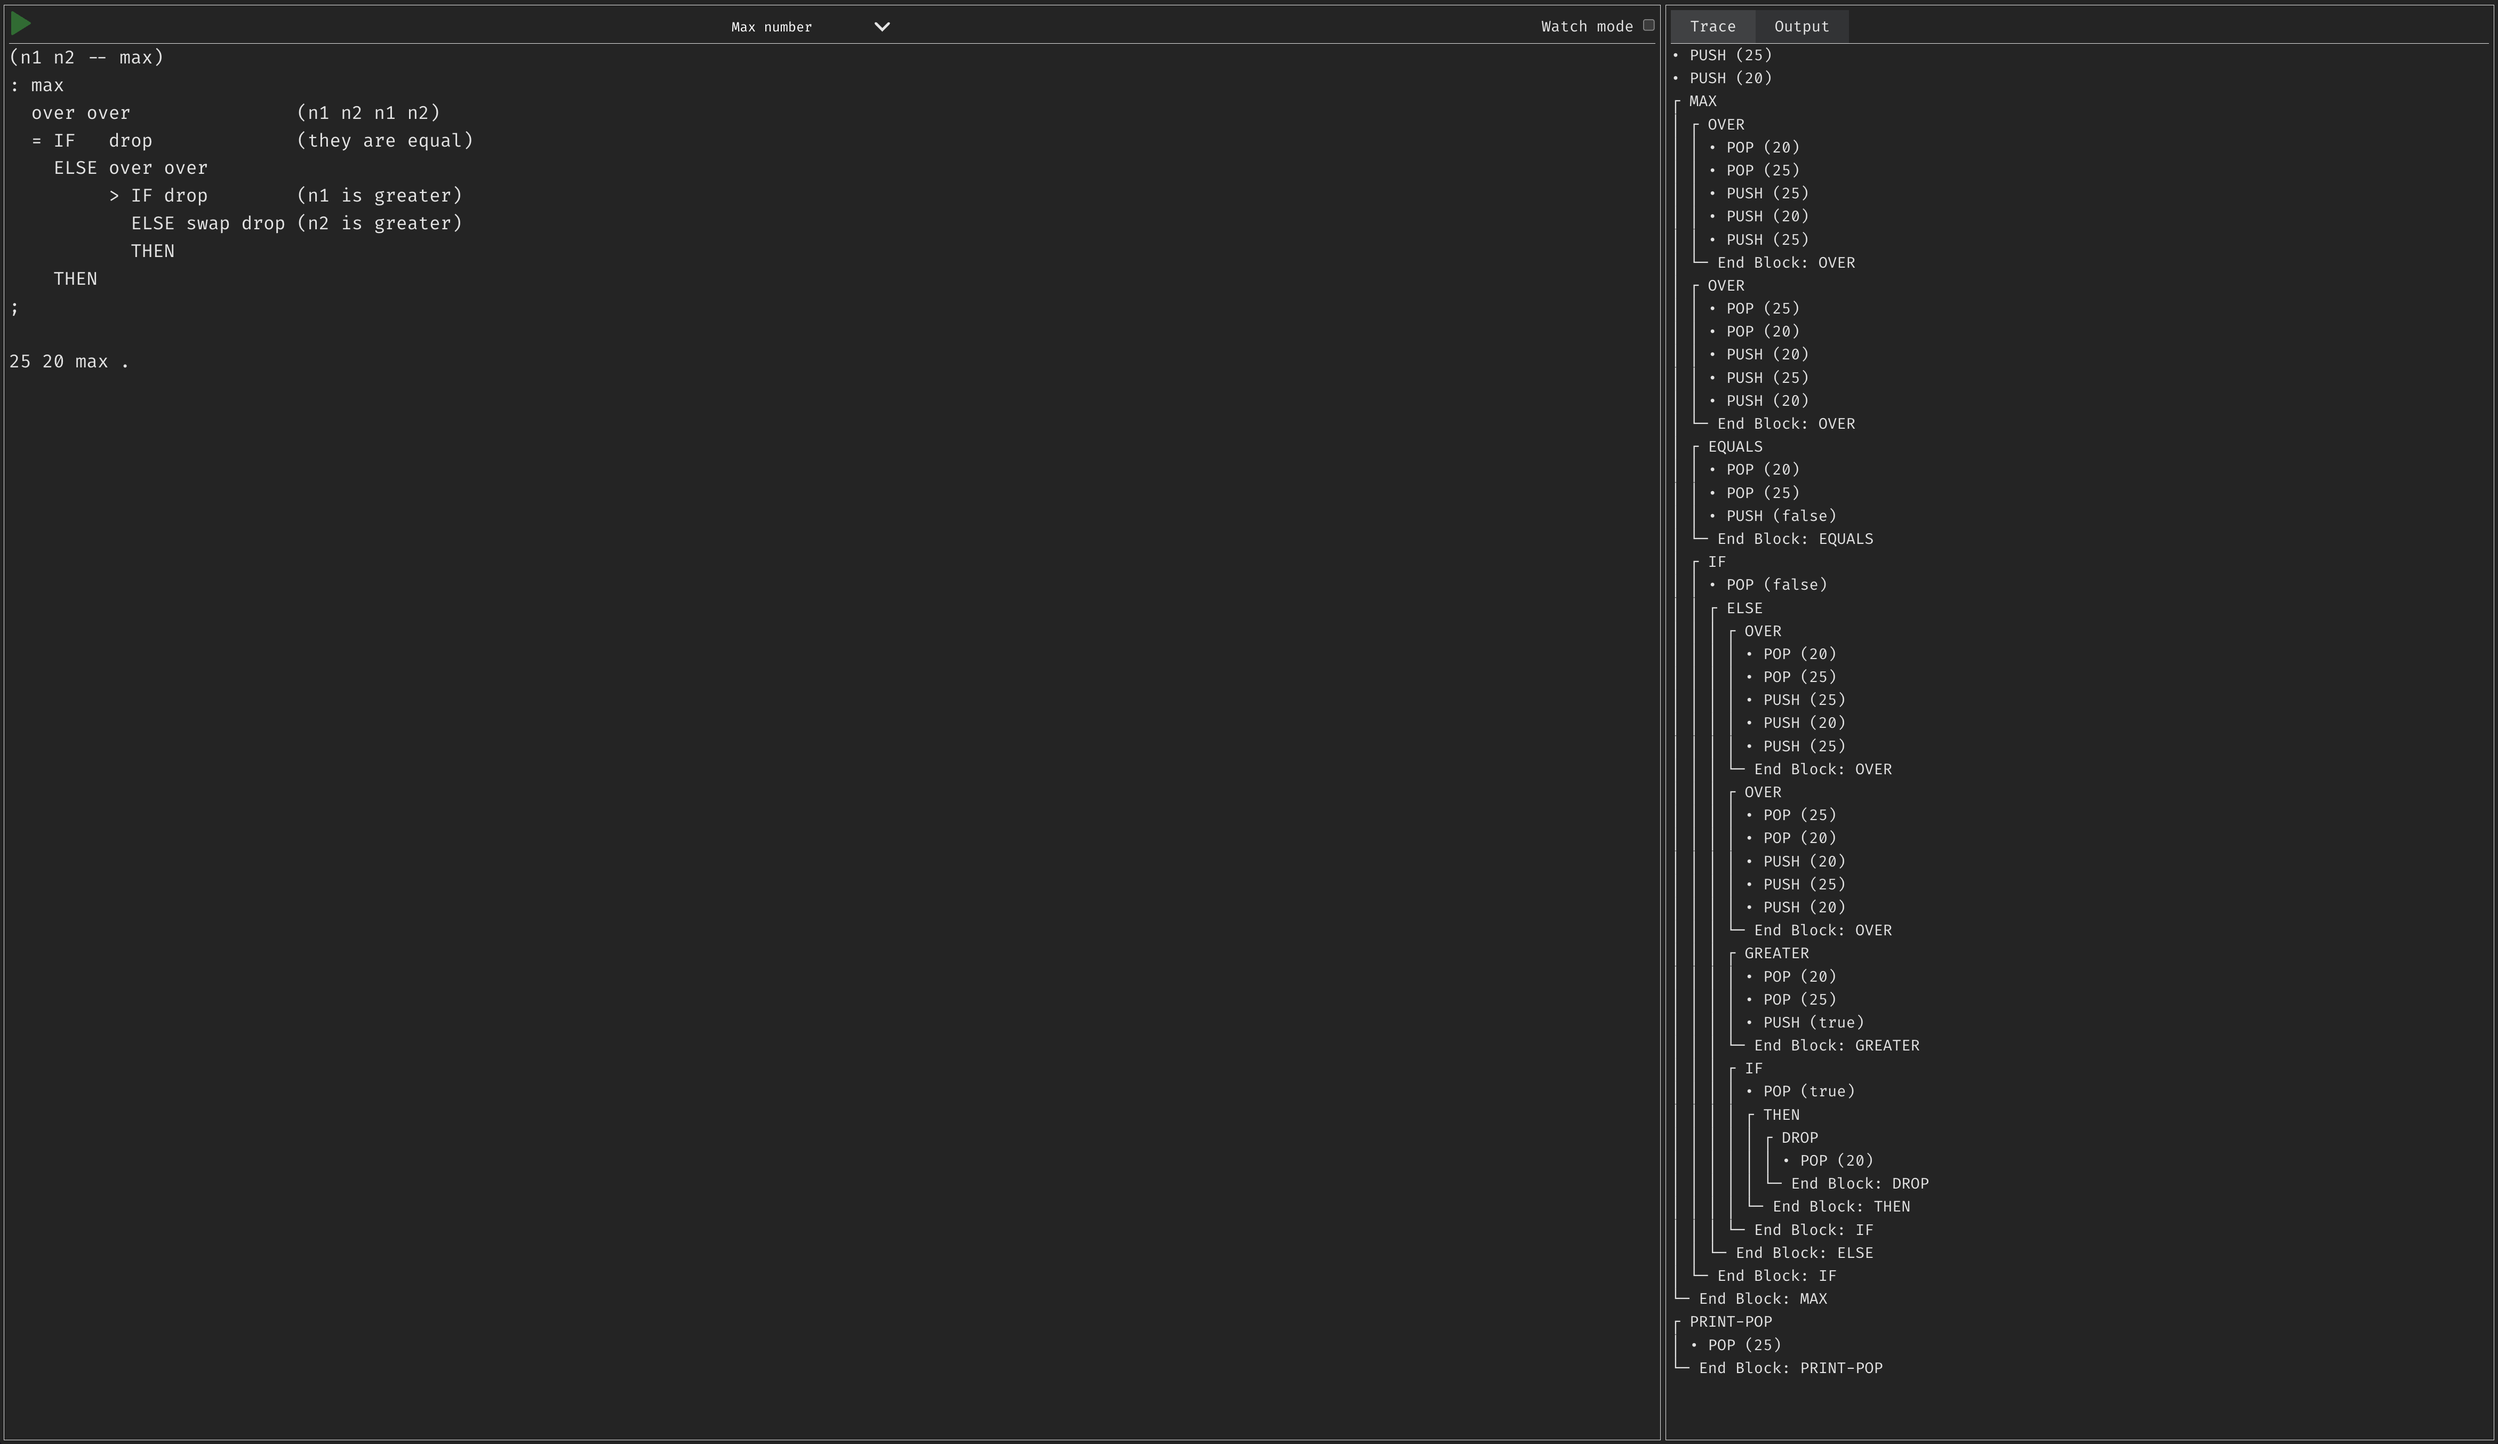
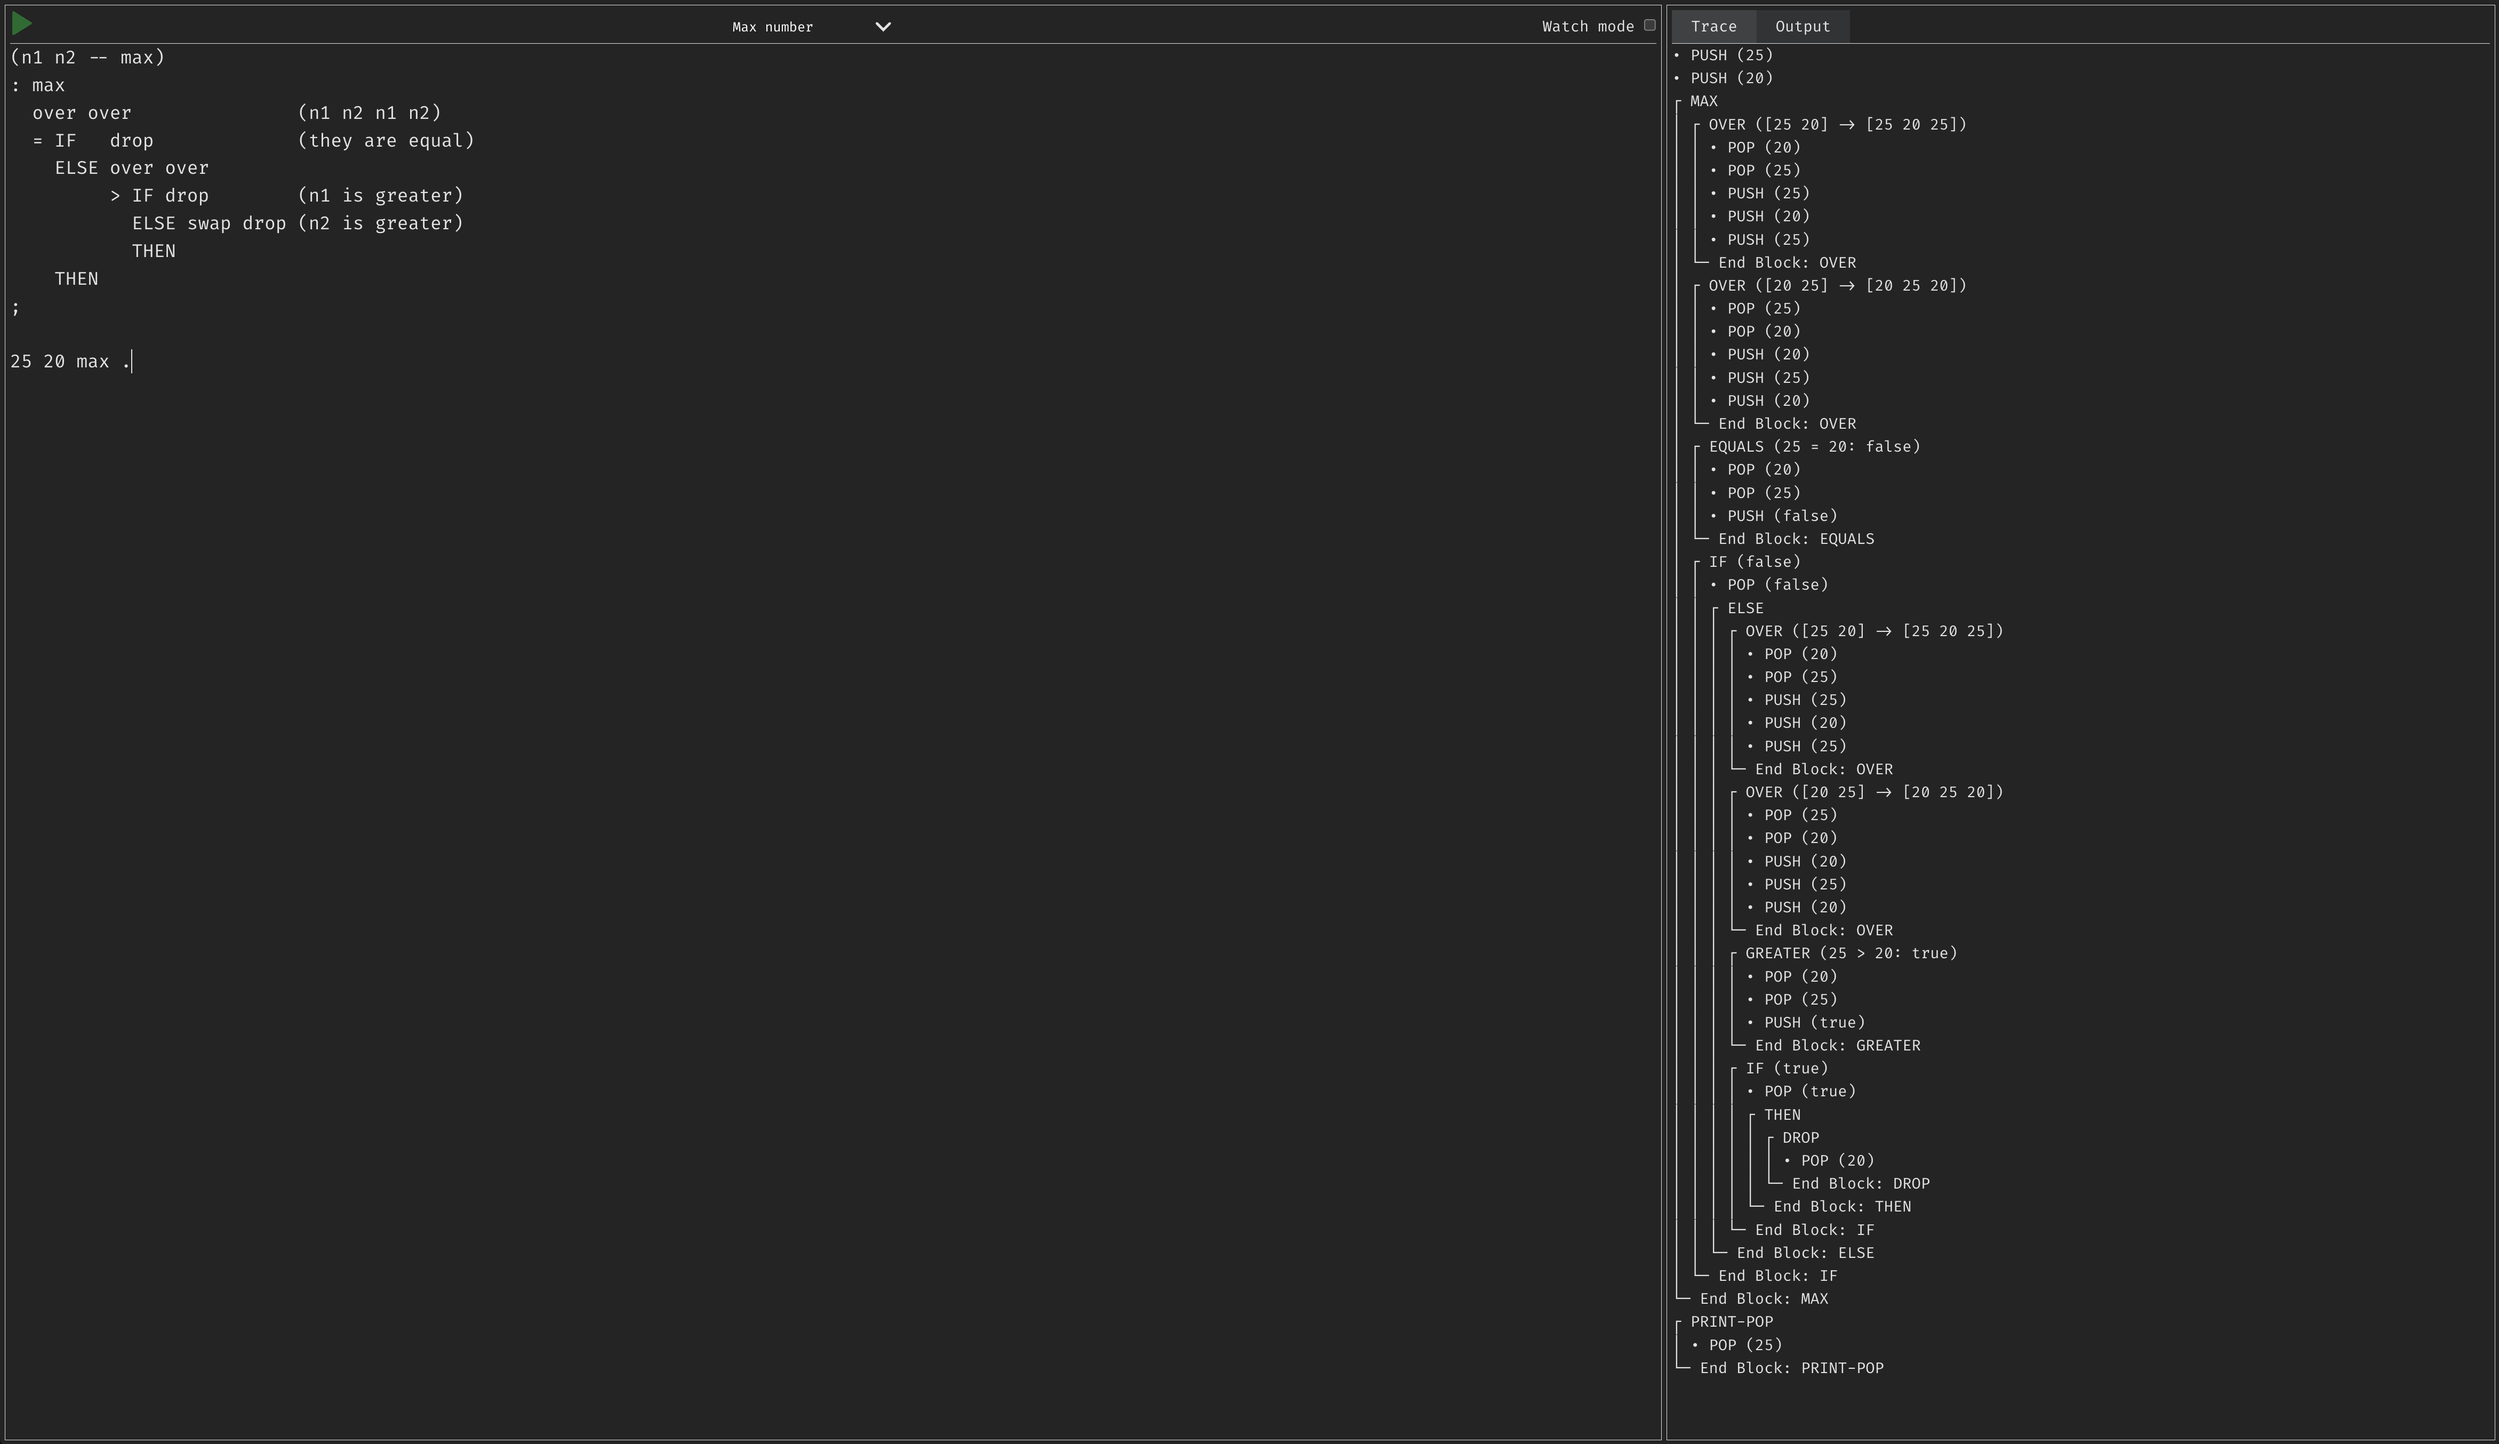
graph: improve graph with details (special view meta option)

diff --git a/src/systemWords/stack.ts b/src/systemWords/stack.ts
@@ -17,19 +17,24 @@ export function drop() {
 
 // (n -- n n)
 export function dup() {
-  execution.beginBlockOperation('DUP')
+  const meta = { view: '' }
+  execution.beginBlockOperation('DUP', meta)
   const token = Machine.peek()
   if (token === undefined) {
     throw new Error('DUP: cannot duplicate empty stack!')
   }
   execution.operation('PEEK', { token })
   Machine.push(token)
+
+  const lit = Token.printLiteral(token)
+  meta.view = `[${lit}] -> [${lit} ${lit}]`
   execution.endBlockOperation()
 }
 
 // (n1 n2 -- n2 n1)
 export function swap() {
-  execution.beginBlockOperation('SWAP')
+  const meta = { view: '' }
+  execution.beginBlockOperation('SWAP', meta)
 
   const n2 = Machine.pop()
   if (n2 === undefined) {
@@ -42,12 +47,17 @@ export function swap() {
 
   Machine.push(n2)
   Machine.push(n1)
+
+  const lit1 = Token.printLiteral(n1),
+        lit2 = Token.printLiteral(n2)
+  meta.view = `[${lit1} ${lit2}] -> [${lit2} ${lit1}]`
   execution.endBlockOperation()
 }
 
 // ( n1 n2 -- n1 n2 n1 )
 export function over() {
-  execution.beginBlockOperation('OVER')
+  const meta = { view: '' }
+  execution.beginBlockOperation('OVER', meta)
 
   const n2 = Machine.pop()
   if (n2 === undefined) {
@@ -61,6 +71,10 @@ export function over() {
   Machine.push(n1)
   Machine.push(n2)
   Machine.push(n1)
+
+  const lit1 = Token.printLiteral(n1),
+        lit2 = Token.printLiteral(n2)
+  meta.view = `[${lit1} ${lit2}] -> [${lit1} ${lit2} ${lit1}]`
   execution.endBlockOperation()
 }
 

diff --git a/src/systemWords/utils.ts b/src/systemWords/utils.ts
@@ -25,7 +25,8 @@ export function makePureFn<const Ts extends readonly Token.LiteralType[], Vs ext
   const wrongUse = wrongParamMessage.bind(null, name, paramsString)
 
   return () => {
-    execution.beginBlockOperation(fnName)
+    const meta = { view: '' }
+    execution.beginBlockOperation(fnName, meta)
 
     if (Machine.isEmpty()) {
       throw new Error(wrongUse('nothing!'))
@@ -62,7 +63,9 @@ export function makePureFn<const Ts extends readonly Token.LiteralType[], Vs ext
         break
     }
 
-    Machine.push(make(expr(values as unknown as Vs)))
+    const value = make(expr(values as unknown as Vs))
+    Machine.push(value)
+    meta.view = `${debugExpr(values as unknown as Vs)}: ${Token.printLiteral(value)}`
     execution.endBlockOperation();
   }
 }

diff --git a/src/metaWords/branching.ts b/src/metaWords/branching.ts
@@ -1,7 +1,6 @@
 import type { Computer } from '../compute'
 import { execution } from '../executionGraph'
 import * as Machine from '../machine'
-import { output } from '../output'
 import * as Token from '../tokens'
 import { makeEndBlockEffect } from './utils'
 
@@ -43,7 +42,8 @@ export function IF(computer: Computer) {
     throw new Error(`Unterminated if condition!`)
   }
 
-  execution.beginBlockOperation('IF')
+  const meta = { view: '' }
+  execution.beginBlockOperation('IF', meta)
 
   const flagTok = Machine.pop()
 
@@ -52,6 +52,7 @@ export function IF(computer: Computer) {
   }
 
   const flag = flagTok.value
+  meta.view = flag.toString()
 
   const registerFinishEffect = (tokens: Array<Token.Token>) => {
     tokens.push(

diff --git a/src/lib/graphPrinter.ts b/src/lib/graphPrinter.ts
@@ -4,6 +4,10 @@ import * as Token from "../tokens";
 function formatMetaEntry(key: string, value: any) {
   let v;
 
+  if (key === 'view') {
+    return value
+  }
+
   if (Token.isToken(value)) {
     if (Token.isLiteral(value)) {
       return Token.printLiteral(value)

diff --git a/src/systemWords/string.ts b/src/systemWords/string.ts
@@ -10,7 +10,7 @@ export const plus = makePureFn(
   [Token.tstr, Token.tstr],
   Token.tstr,
   ([b, a]) => a + b,
-  ([b, a]) => `${a} + ${b}`,
+  ([b, a]) => `"${a}" + "${b}"`,
   'concatenate',
 )
 
